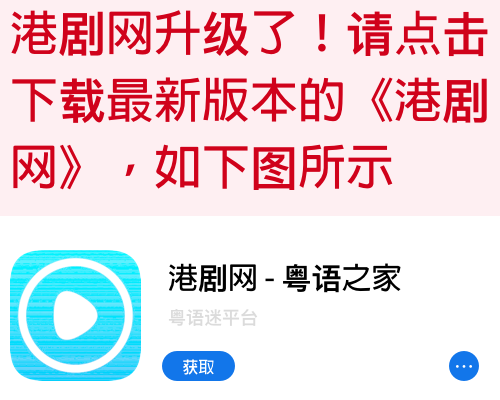
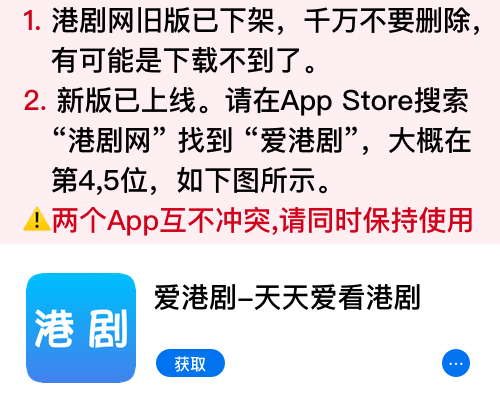
66

diff --git a/api/banner/hjw.html b/api/banner/hjw.html
@@ -114,11 +114,11 @@
 </head>
 <body>
 	<div id="close">
-		    		<img  width="100%" src="2.png" onclick="jump('itunes://itunes.apple.com/cn/app/id1359761086?mt=8') ">
+		    		<img  width="100%" src="2.png" onclick="jump('https://itunes.apple.com/WebObjects/MZStore.woa/wa/search?mt=8&submit=edit&term=%E6%B8%AF%E5%89%A7%E7%BD%91#software') ">
 	</div> 
     <div class="content">
 
-    		<img id="content" width="100%" src="1.png" onclick="jump('https://itunes.apple.com/cn/app/id1359761086?mt=8') ">
+    		<img id="content" width="100%" src="1.png" onclick="jump('https://itunes.apple.com/WebObjects/MZStore.woa/wa/search?mt=8&submit=edit&term=%E6%B8%AF%E5%89%A7%E7%BD%91#software') ">
     </div>
 </body>
 </html>
